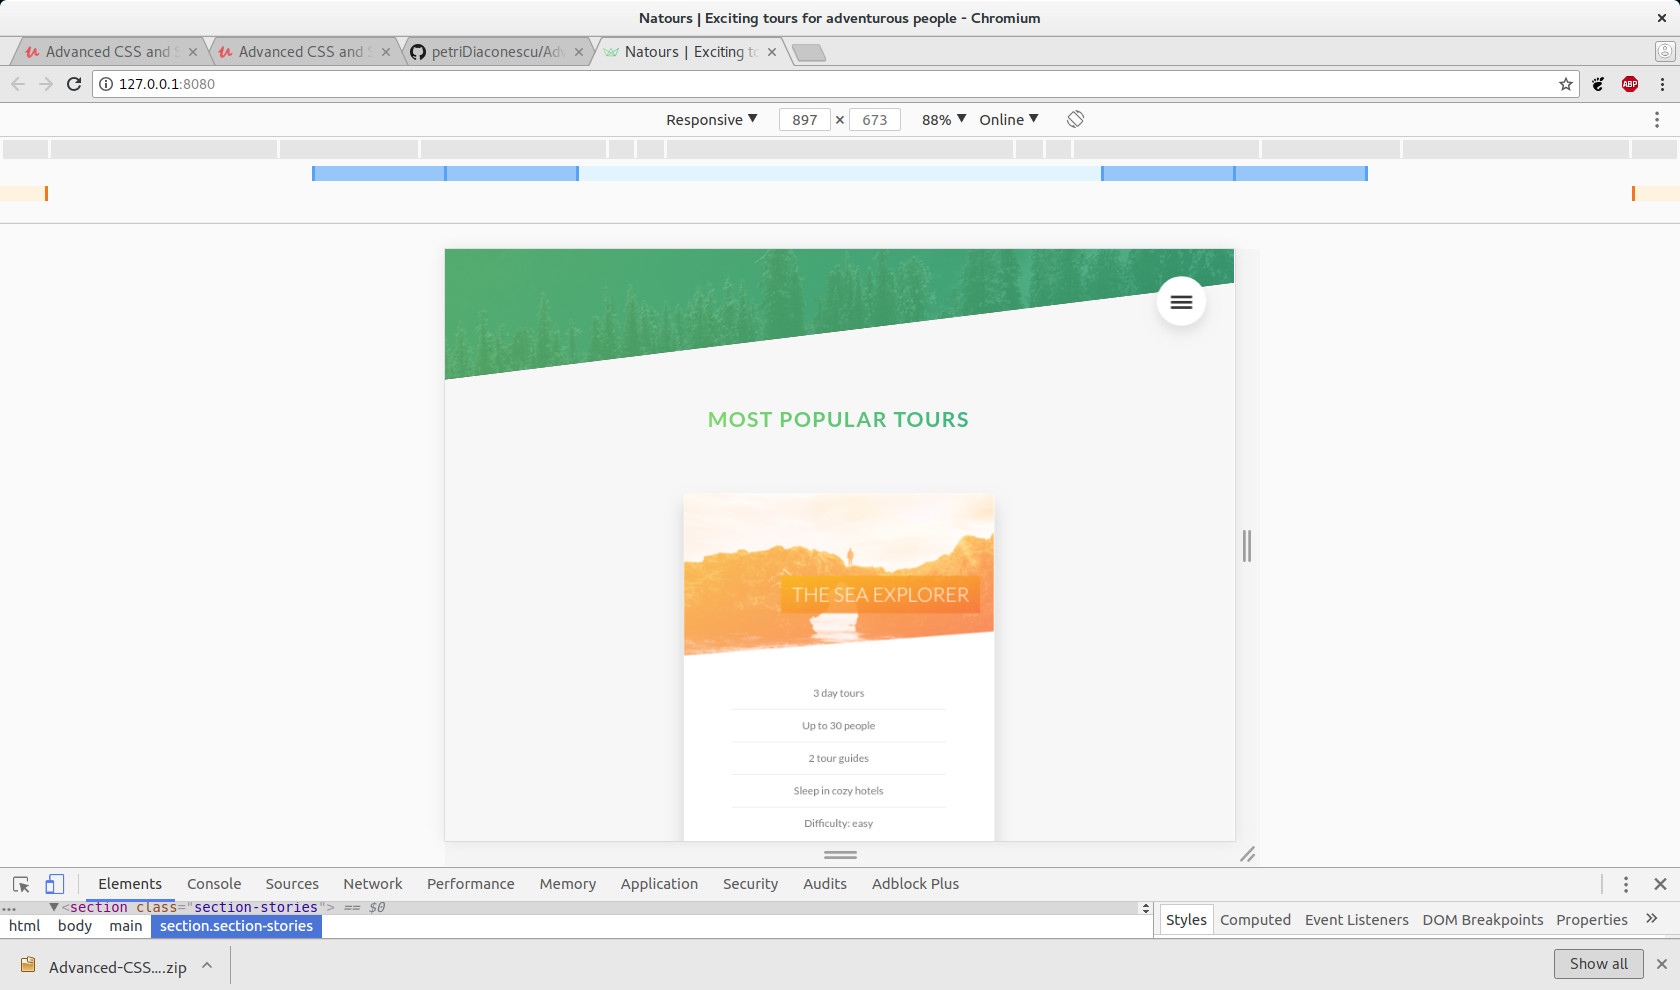
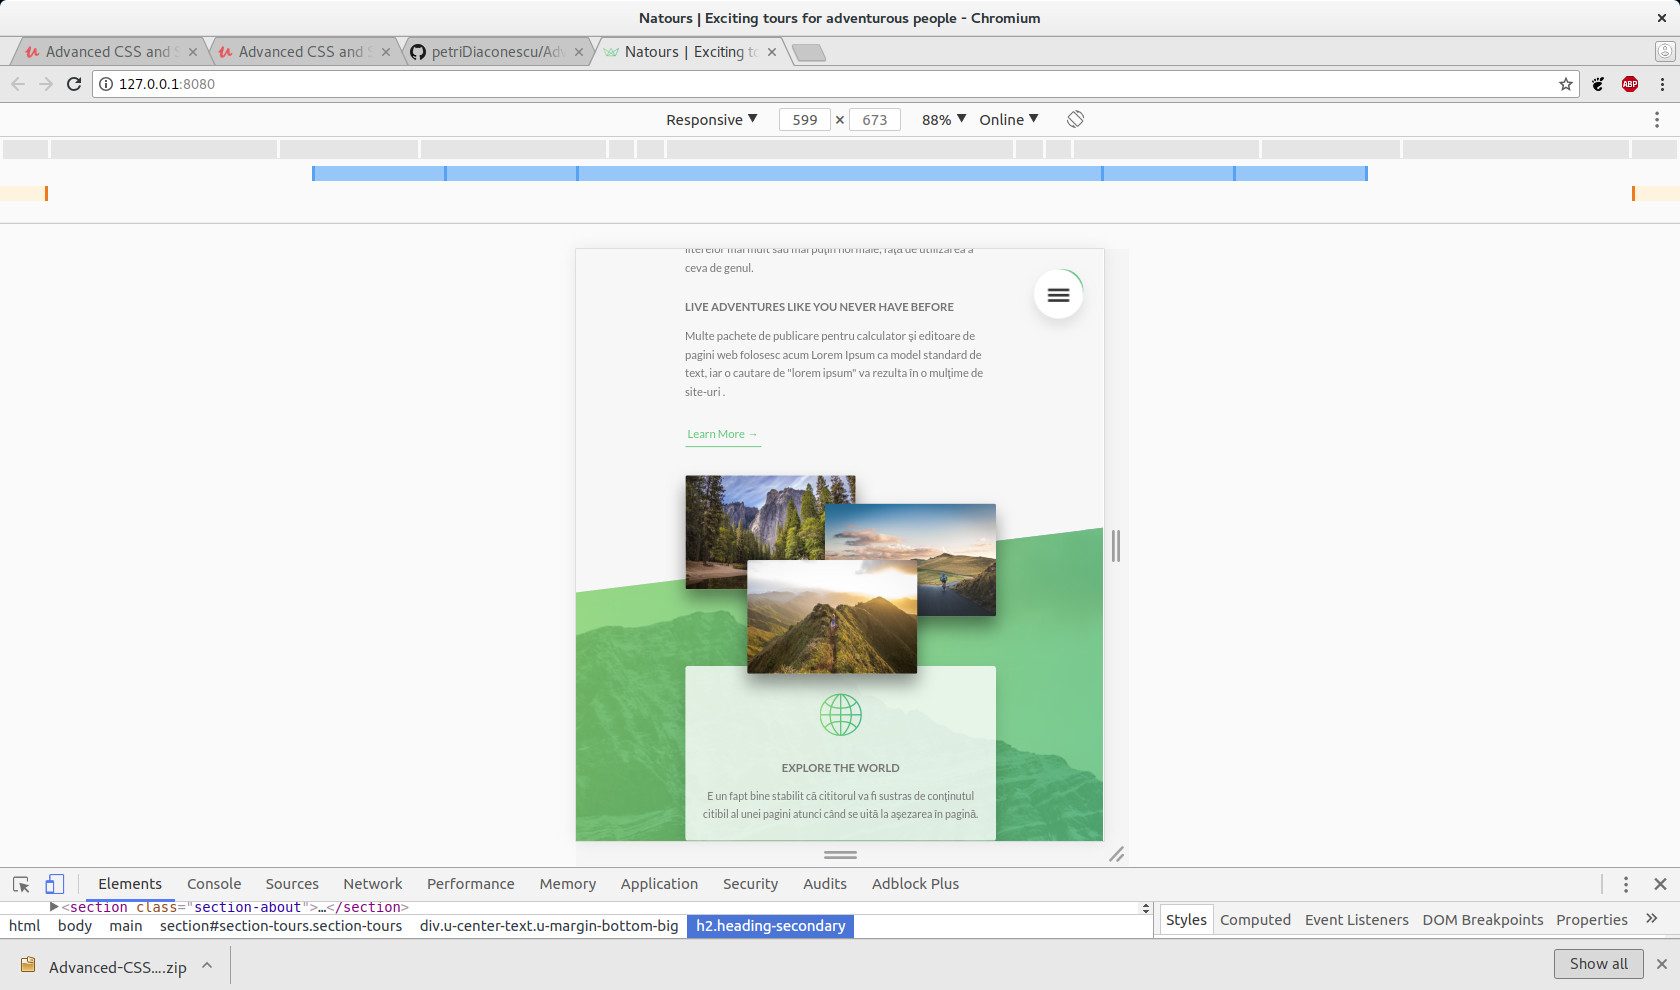
Change the layout of the composition component below 900px

Changed region(s): [[0.2476, 0.2424, 0.7429, 0.8485], [0.0, 0.9091, 0.681, 0.9697], [0.3405, 0.1515, 0.65, 0.1818]]

diff --git a/sass/components/_composition.scss b/sass/components/_composition.scss
@@ -10,19 +10,39 @@
     transition: all .2s;
     outline-offset: 2rem;
     
+    @include respond(tab-port){
+      float: left;
+      position: relative;
+      width: 33.3333333%;
+      box-shadow: 0 1.5rem 3rem rgba($color-black, .2);
+    }
+    
     &--p1 {
       left: 0;
       top: -2rem;
+      
+      @include respond(tab-port){
+        top: 0;
+      }
     }
     
     &--p2 {
       right: 0;
       top: 2rem;
+      
+      @include respond(tab-port){
+        top: 0;
+      }
     }
     
     &--p3 {
       left: 20%;
       top: 10rem;
+      
+      @include respond(tab-port){
+        top: 0;
+        left: 0;
+      }
     }   
     
      &:hover {
